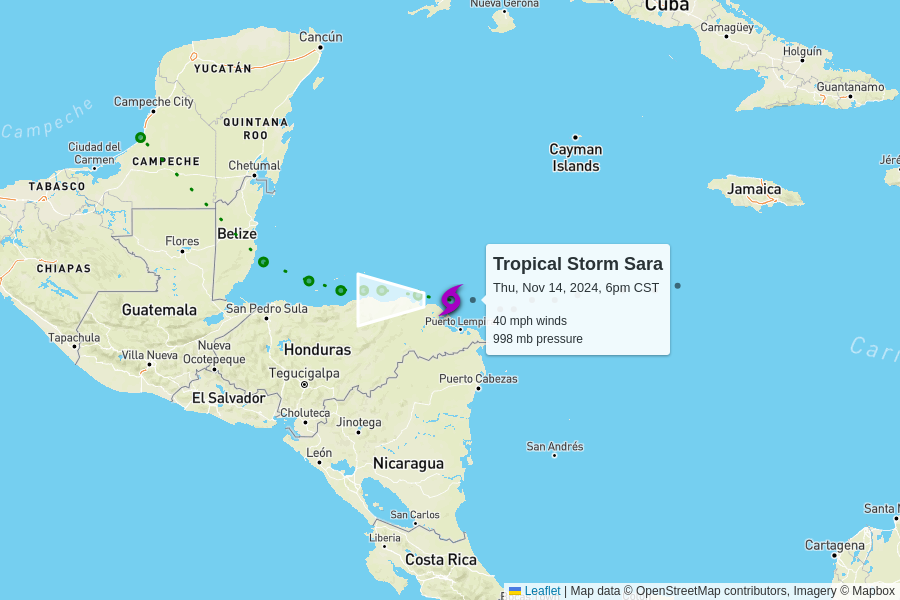
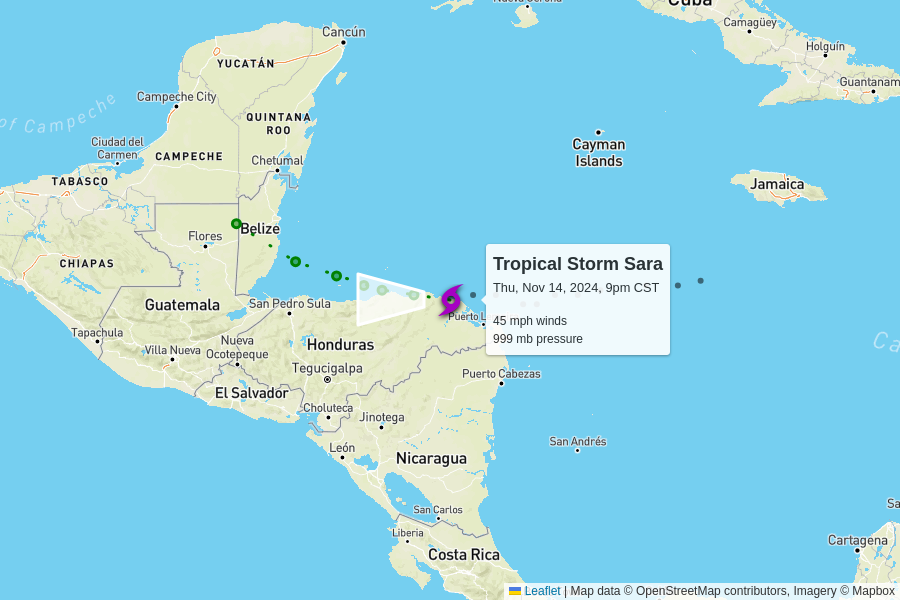
automatic update

diff --git a/docs/index.html b/docs/index.html
@@ -102,7 +102,7 @@
         <td colspan="6" class="storm category-0" >
           <h2>
             Tropical Storm Sara
-            <p class="updated">last updated <span data-time>2024-11-15T00:00:00.000Z</span></p>
+            <p class="updated">last updated <span data-time>2024-11-15T03:00:00.000Z</span></p>
           </h2>
         </td>
       </tr>
@@ -117,8 +117,8 @@
       </tr>
       <tr>
         <td class="spacer"></td>
-        <td>40 mph<br>0 mph since last update</td>
-        <td>998 mb<br>0 mb since last update</td>
+        <td>45 mph<br>+5 mph since last update</td>
+        <td>999 mb<br>+1 mb since last update</td>
         <td>
           10 mph to the west
           <br/>
